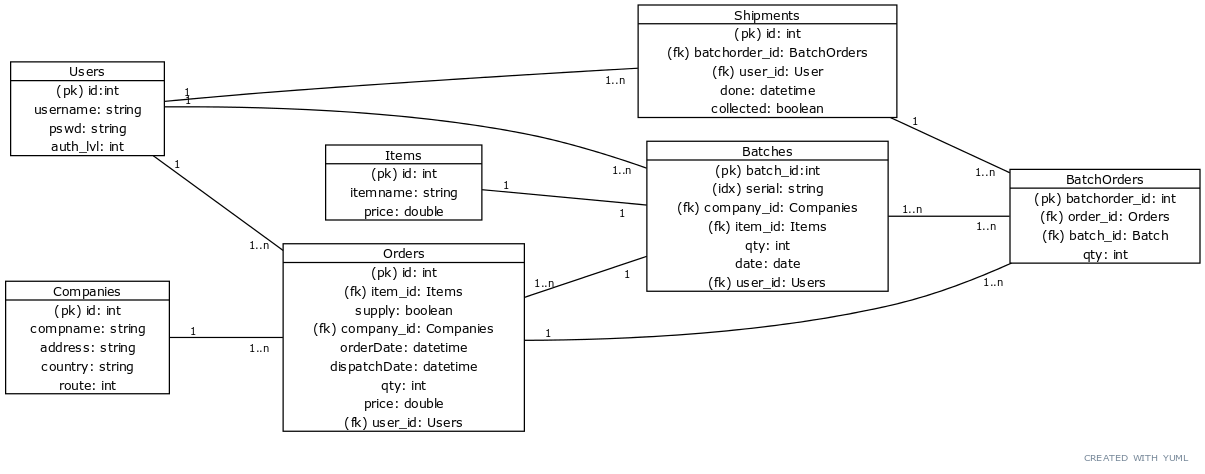
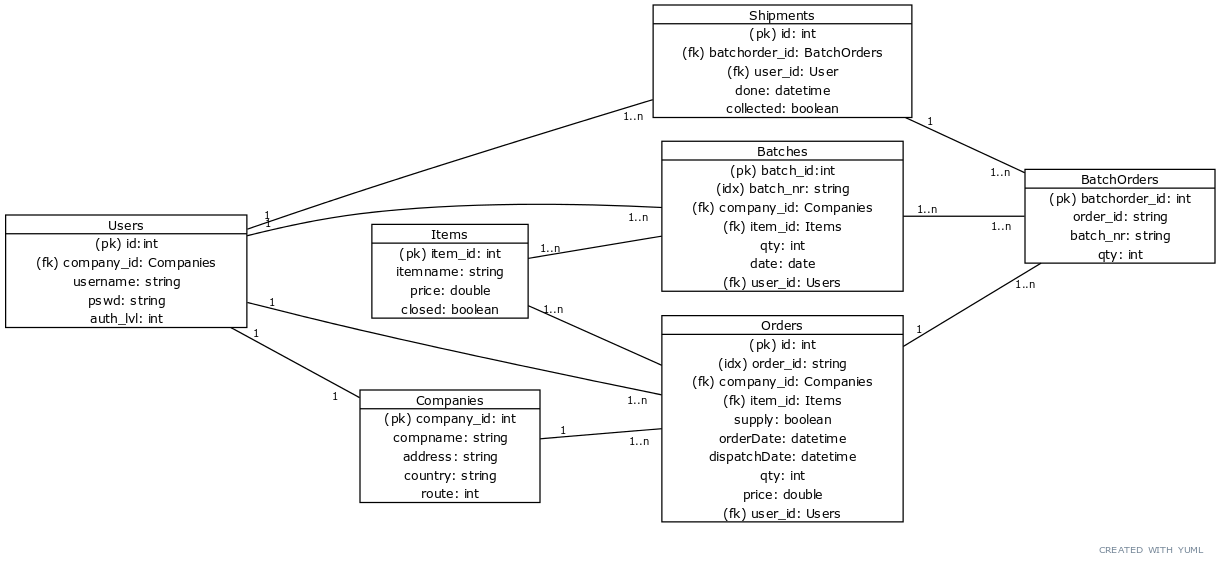
Modified schema to correspond recent build

diff --git a/doc/db.md b/doc/db.md
@@ -9,7 +9,7 @@ Tietokanta koostuu 7 eri taulukosta.
 ```
 CREATE TABLE companies(
 	company_id SERIAL PRIMARY KEY,
-	name TEXT NOT NULL,
+	compname TEXT NOT NULL,
 	address TEXT NOT NULL,
 	email TEXT NOT NULL,
 	country TEXT,
@@ -17,33 +17,42 @@ CREATE TABLE companies(
 
 CREATE TABLE items(
 	item_id SERIAL PRIMARY KEY,
-	name TEXT NOT NULL,
-	price NUMERIC NOT NULL);
+	itemname TEXT NOT NULL,
+	price NUMERIC NOT NULL,
+	closed BOOLEAN DEFAULT FALSE);
 
 CREATE TABLE users(
 	user_id SERIAL PRIMARY KEY,
-	name TEXT NOT NULL,
+	company_id INT,
+	username TEXT NOT NULL,
 	pswd TEXT NOT NULL,
-	auth_lvl SMALLINT NOT NULL);
+	auth_lvl SMALLINT NOT NULL,
+	CONSTRAINT fk_company_id
+		FOREIGN KEY(company_id)
+			REFERENCES companies(company_id));
 
 CREATE TABLE orders(
-	order_id SERIAL PRIMARY KEY,
+	id SERIAL PRIMARY KEY,
+	order_id TEXT NOT NULL,
 	company_id INT NOT NULL,
 	item_id INT NOT NULL,
+	supply BOOLEAN,
 	orderDate TIMESTAMP  NOT NULL,
 	dispatchDate TIMESTAMP,
 	qty INT NOT NULL,
 	price NUMERIC NOT NULL,
 	user_id INT NOT NULL,
-	CONSTRAINT fk_company
+	CONSTRAINT fk_company_id
 		FOREIGN KEY(company_id)
 			REFERENCES companies(company_id),
-	CONSTRAINT fk_user
+	CONSTRAINT fk_user_id
 		FOREIGN KEY(user_id)
 			REFERENCES users(user_id),
-	CONSTRAINT fk_item
+	CONSTRAINT fk_item_id
 		FOREIGN KEY(item_id)
-			REFERENCES items(item_id);
+			REFERENCES items(item_id));
+
+CREATE INDEX order_id_idx ON orders (order_id);
 
 CREATE TABLE batches(
 	batch_id SERIAL PRIMARY KEY,
@@ -53,10 +62,10 @@ CREATE TABLE batches(
 	qty INT,
 	date TIMESTAMP,
 	user_id INT NOT NULL,
-	CONSTRAINT fk_company
+	CONSTRAINT fk_company_id
 		FOREIGN KEY(company_id)
 			REFERENCES companies(company_id),
-	CONSTRAINT fk_user
+	CONSTRAINT fk_user_id
 		FOREIGN KEY(user_id)
 			REFERENCES users(user_id));
 
@@ -64,23 +73,28 @@ CREATE INDEX batch_nr_idx ON batches (batch_nr);
 
 CREATE TABLE batchorders(
 	batchorder_id SERIAL PRIMARY KEY,
-	order_id INT NOT NULL,
+	order_id TEXT NOT NULL,
 	batch_nr TEXT NOT NULL,
+	item_id INT NOT NULL,
 	qty INT NOT NULL,
-	CONSTRAINT fk_order
+	CONSTRAINT fk_order_id
 		FOREIGN KEY(order_id)
-			REFERENCES orders(order_id));
+			REFERENCES orders(order_id),
+	CONSTRAINT fk_item_id
+		FOREIGN KEY(item_id)
+			REFERENCES items(item_id));
 
 CREATE TABLE shipments(
 	shipment_id SERIAL PRIMARY KEY,
+	order_id TEXT NOT NULL,
 	batchorder_id INT NOT NULL,
 	user_id INT NOT NULL,
 	done TIMESTAMP NOT NULL,
 	collected BOOLEAN,
-	CONSTRAINT fk_batchorder
+	CONSTRAINT fk_batchorder_id
 		FOREIGN KEY(batchorder_id)
 			REFERENCES batchorders(batchorder_id),
-	CONSTRAINT fk_user
+	CONSTRAINT fk_user_id
 		FOREIGN KEY(user_id)
 			REFERENCES users(user_id));
 ```
